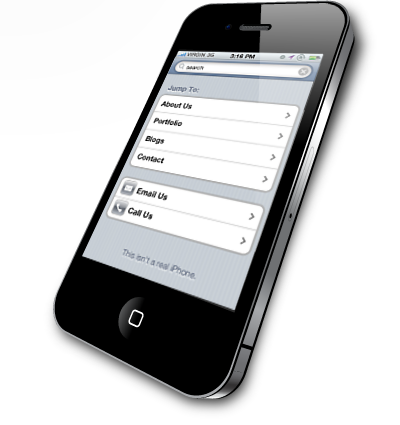
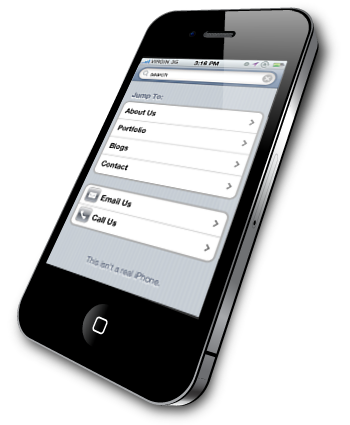
Made some changes to the background, added the Macbook, but nothing major

Changed region(s): [[0.0286, 0.0, 0.9714, 1.0]]

diff --git a/index.html b/index.html
@@ -43,23 +43,20 @@
 
 		<header>
 			<div class="content">
-				<div class="logo"></div>
+				<div class="logo ir">loop/recur</div>
 			</div>
-    </header>
+    	</header>
 		
-		<section id="intro">
+		<section id="intro" class="clearfix">
 			<div class="content">
-				
 				<div class="right">
 					<h1 class="solutions ir">Solutions is a really stupid word.</h1>					
 					<p class="copy">we don't provide unequaled solutions to optimize your this-or-that client-side whatever-you-call-it.</p>
-					
 					<p class="copy">
 						we build apps. good ones.<br>
-						for web, mobile,<br>
-						and tablet devices.
+						for web, mobile, and<br>
+						tablet devices.
 					</p>
-					
 				</div>
 				
 				<img class="iphone-nav" src="img/iphone-nav.png" alt="iphone navigation" />
@@ -67,15 +64,14 @@
 			</div>
 		</section>
 		
-		<div class="swatch-divider-shadow"></div>
+		<div class="swatch-divider-shadow clearfix"></div>
 		
-		<section id="who">
+		<section id="who" class="clearfix">
 			<div class="content">
-				
+
 				<img class="right" src="img/infographic.png" alt="how we eat" />
 			
 				<div>
-
 					<h2 class="who-or-what">Who or what is loop/recur?</h2>
 					
 					<p class="copy">we don't provide unequaled solutions to optimize your this-or-that client-side whatever-you-call-it.we don't provide unequaled solutions to.</p>
@@ -93,45 +89,42 @@
 			</div>			
 		</section>
 		
-		<div class="swatch-divider"></div>
+		<div class="swatch-divider clearfix"></div>
 		
-		<section id="work">
+		<section id="work" class="clearfix">
 			<div class="content">
-			
 				<div class="our-work right">
 					<h2>Our Work</h2>
 				
 					<p class="copy">Lorem ipsum dolor sit amet, consectetur adipisicing elit, sed do eiusmod tempor incididunt ut labore et dolore magna aliqua.</p>
 					
-						<p class="copy">Ut enim ad minim veniam, quis nostrud exercitation ullamco laboris nisi ut aliquip ex ea commodo consequat. Duis aute irure dolor in reprehenderit in voluptate velit esse cillum dolore eu fugiat nulla pariatur.</p>
+					<p class="copy">Ut enim ad minim veniam, quis nostrud exercitation ullamco laboris nisi ut aliquip ex ea commodo consequat. Duis aute irure dolor in reprehenderit in voluptate velit esse cillum dolore eu fugiat nulla pariatur.</p>
 					
-						<p class="copy">Excepteur sint occaecat cupidatat non proident, sunt in culpa qui officia deserunt mollit anim id est laborum.</p>
+					<p class="copy">Excepteur sint occaecat cupidatat non proident, sunt in culpa qui officia deserunt mollit anim id est laborum.</p>
 					
-						<p class="copy">Duis aute irure dolor in reprehenderit in voluptate velit esse cillum dolore eu fugiat nulla pariatur.</p>
+					<p class="copy">Duis aute irure dolor in reprehenderit in voluptate velit esse cillum dolore eu fugiat nulla pariatur.</p>
 						
+				</div>
+				<div class="slider_container left">
+					<div id="slider"></div>
 				</div>
 			</div>			
 		</section>
 		
-		<section id="wood-swatch"></section>
+		<section id="wood-swatch" class="clearfix"></section>
 		
-		<div class="swatch-divider"></div>
+		<div class="swatch-divider clearfix"></div>
 		
 		<!-- <section id="team">
 			<div class="content">
-				
 				<h3>and now a word from our founders...</h3>
-				
 				<img class="underline" src="img/message_underline.png" alt="the underline" />
-				
-				
-				
 			</div>			
 		</section> -->
-
+		
 		<!-- <div class="swatch-divider"></div> -->
 
-    <footer>
+    <footer class="clearfix">
 			<div class="content">			
 				
 				<div class="contact right">

diff --git a/css/style.css b/css/style.css
@@ -244,24 +244,29 @@ td { vertical-align: top; }
    ========================================================================== */
 
 #container {
-	width: 1280px;
+	width: 100%;
 	height: auto;
 	margin:0 auto;
+	background-color: #FDD456;
+
 }
 
 header {
-	background-color:#FDD456;
-	height:176px;
+	background: url(../img/lr_top_bg.png) repeat;
+	height:180px;
 }
+
 
 .logo {
 	background: url(../img/lr_logo.png) repeat;
-	width: 300px;
-	height: 179px;
-}
+	width: 500px;
+	height: 189px;
+	margin: 0 0 0 -100px;
+	}
 
 #intro {
 	background-color:#FDF9F8;
+	background: url(../img/lr_solutions_bg.jpg) repeat-x;
 	height:320px;
 }
 
@@ -280,13 +285,14 @@ header {
 
 #intro .copy {
 	width: 240px;
-	margin-left: 11px;
+	margin: 8px 0 0 11px;
 }
 
 #intro .iphone-nav {
 	position: relative;
 	top: -40px;
-	left: 130px;
+	left: 180px;
+	z-index: 99;
 }
 
 .swatch-divider {
@@ -300,10 +306,9 @@ header {
 }
 
 #who {
-	background: url(../img/section-backgrounds/who-swatch.png) repeat-y;
+	background: url(../img/lr_who_bg.png) repeat;
 	height:600px;
 	color:#AAABAD;
-	padding: 1px;
 }
 
 #who .content img {
@@ -330,14 +335,27 @@ header {
 }
 
 #work {
-	background: url(../img/section-backgrounds/work-swatch.png) repeat-y;
-	height:545px;
-	padding: 1px;
+	background: url(../img/lr_blue_work_bg.gif) repeat;
+	height:525px;
+	position: relative;
+}
+
+#work:before {
+	content: "";
+	background: url(../img/testgradient.svg);
+	background-size: 100% 100%;
+	position: absolute;
+	top: 0;
+	left: 0;
+	display: block;
+	height: 100%;
+	width: 100%;
 }
 
 #work .content {
 	color: #FFFFFF;
 	text-align: right;
+	position: relative;
 }
 
 
@@ -354,7 +372,18 @@ header {
 	margin-left: 90px;
 }
 
+.slider_container {
+	height: 525px;
+}
 
+#slider {
+	background: url(../img/lr_macbook.png) no-repeat;
+	background-position: bottom;
+	width: 630px;
+	height: 525px;
+	margin: 38px 0 0 -50px;
+	position: relative;
+	}
 
 #wood-swatch {
 	background: url(../img/section-backgrounds/wood-swatch.jpg) repeat-x;
